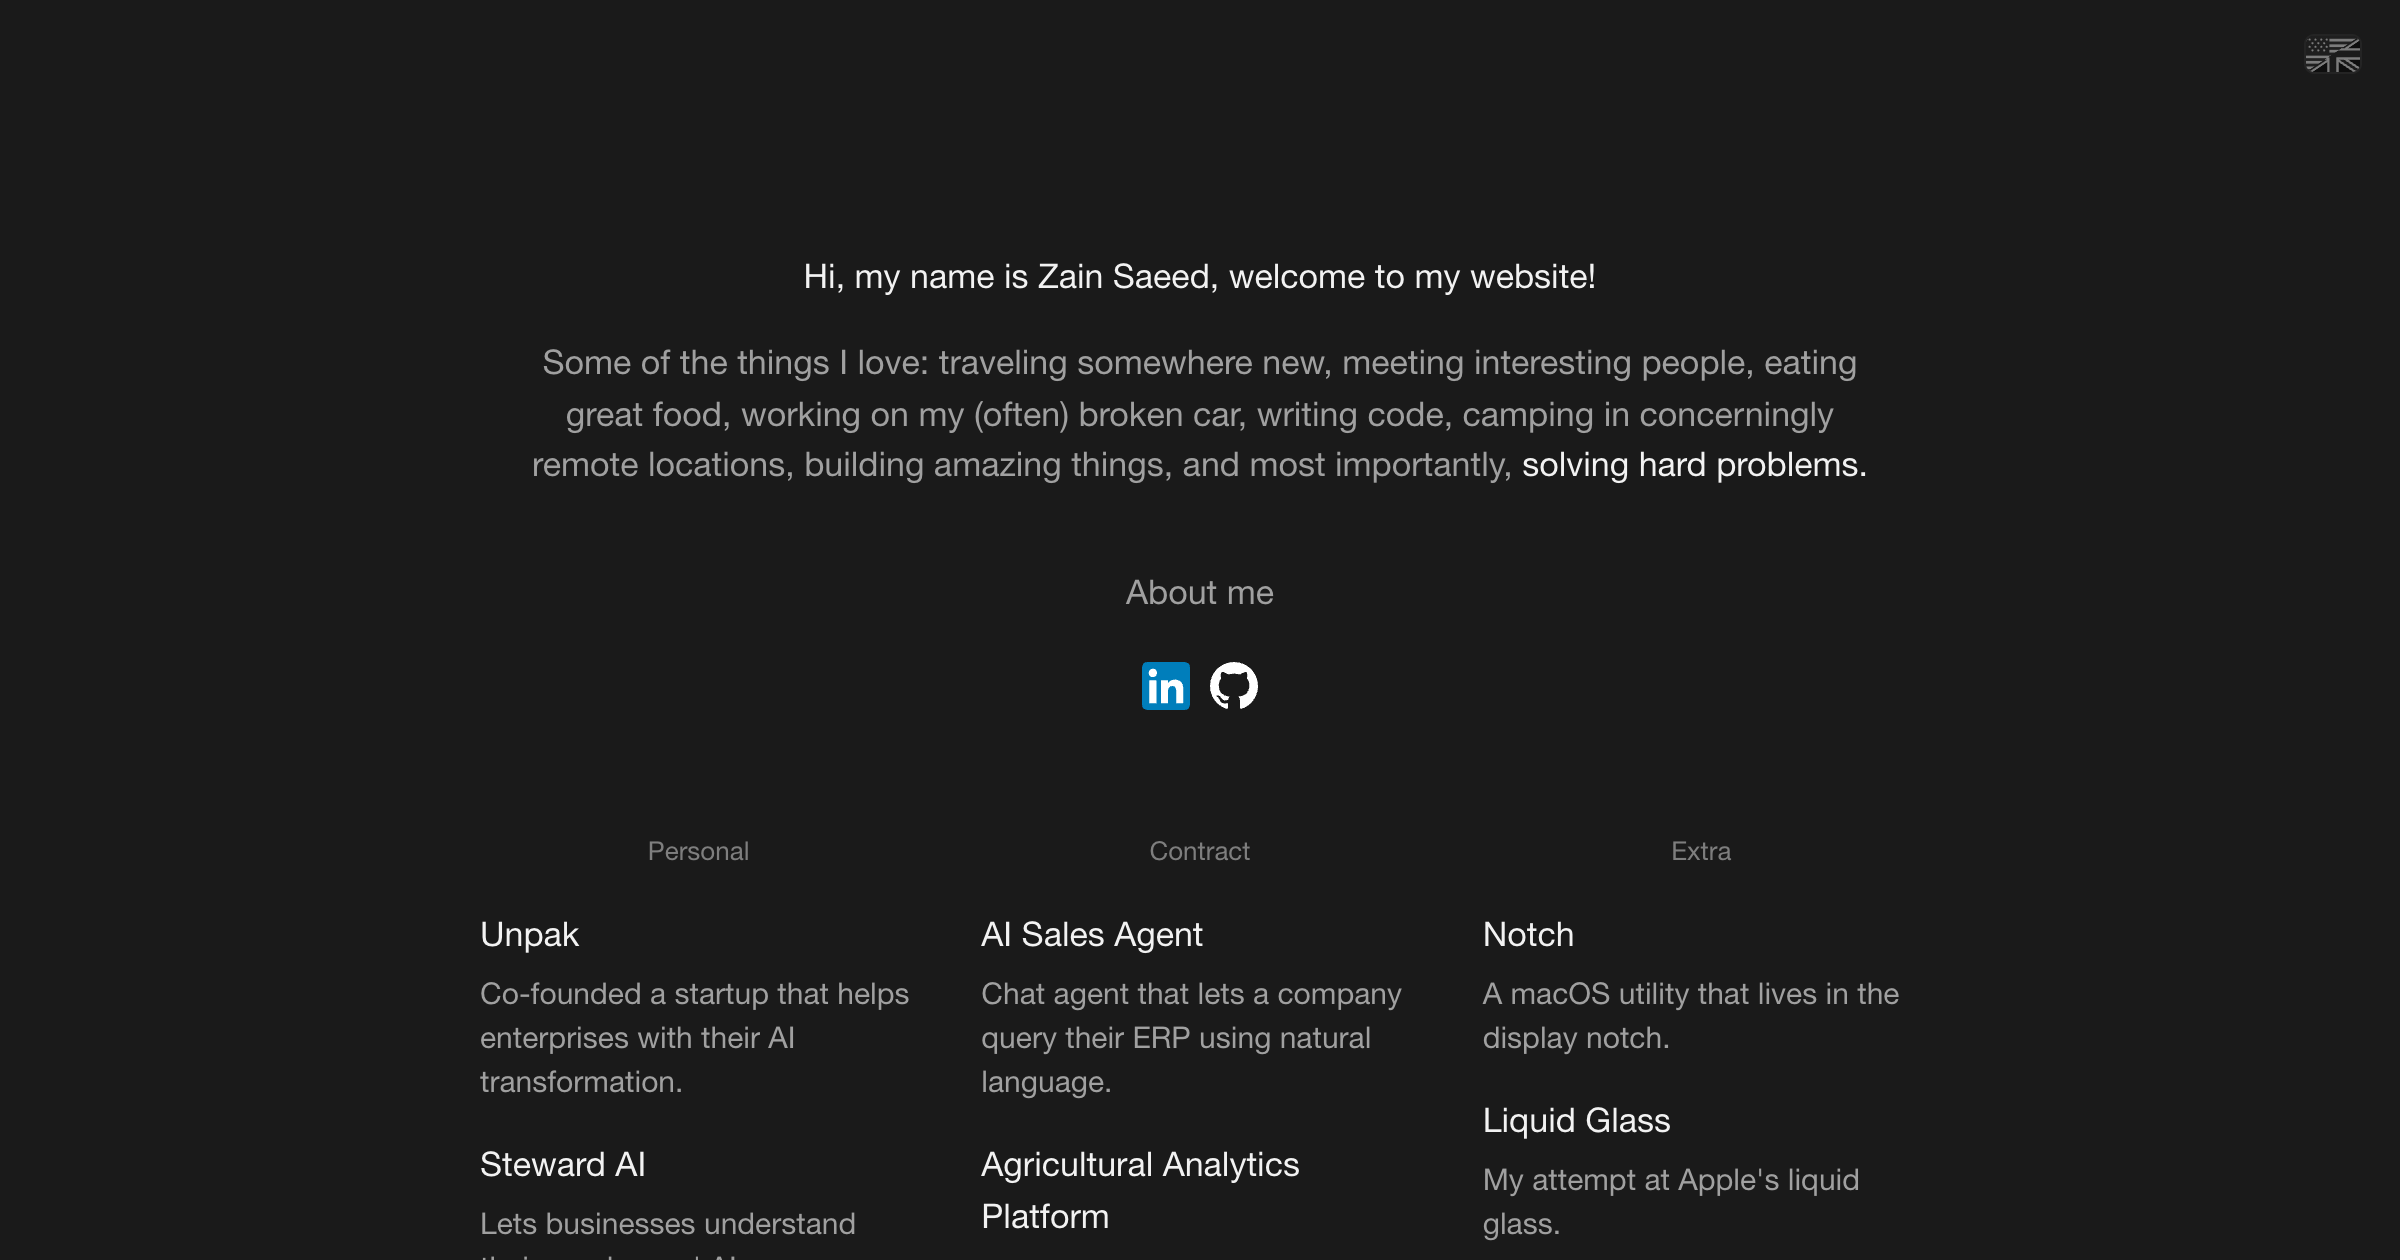
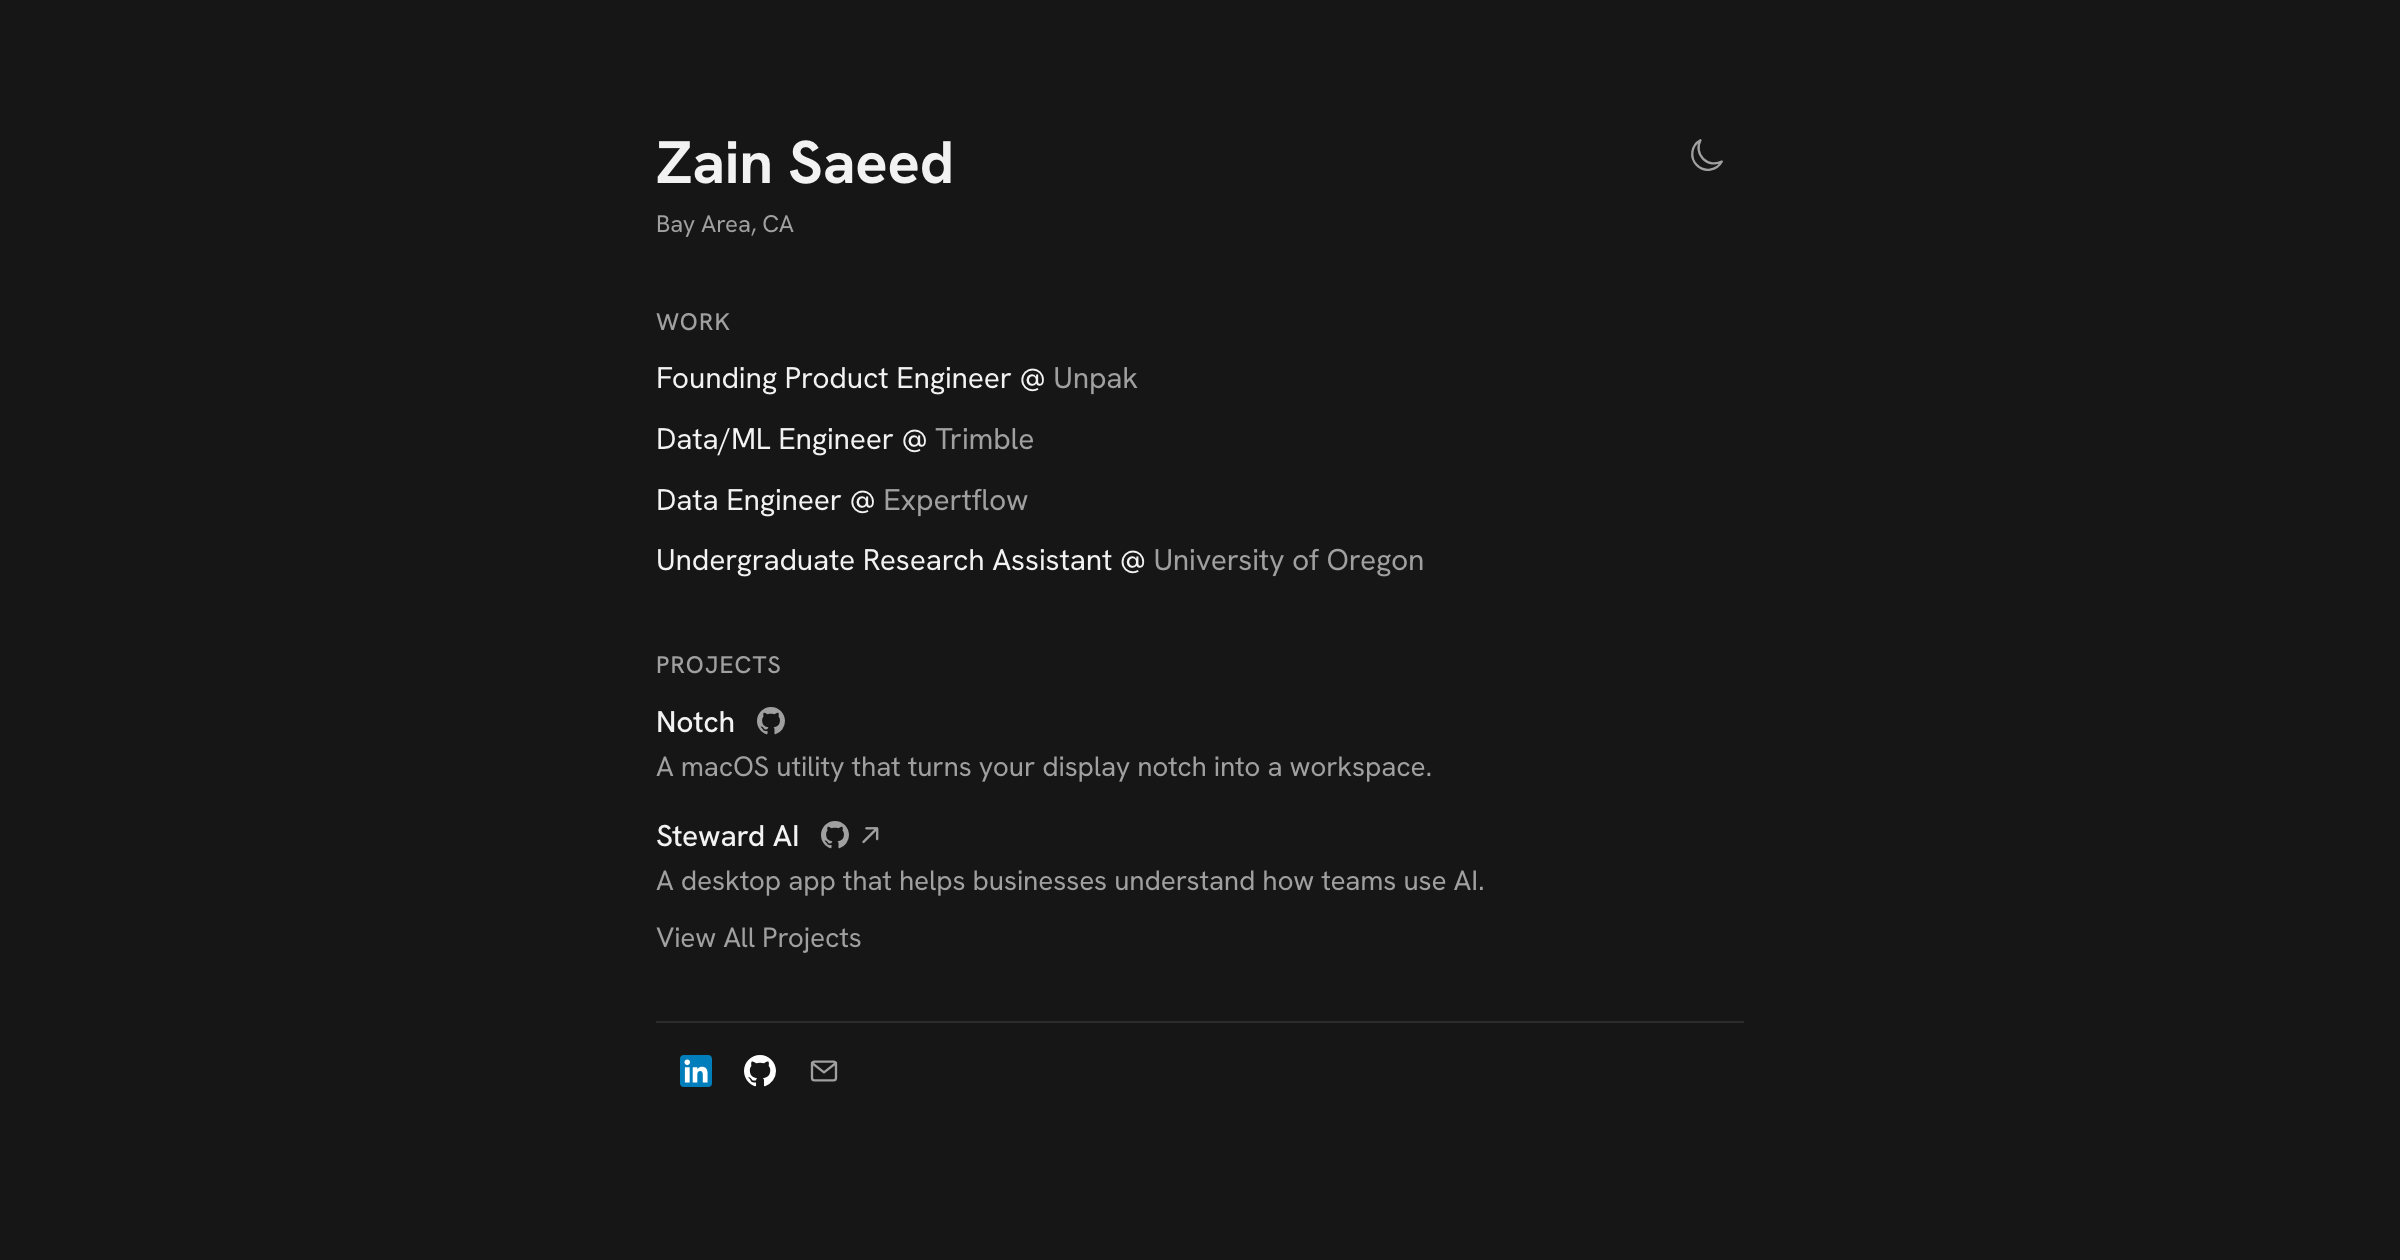
Refresh link previews and page metadata
- New og-home.png screenshot of the current homepage (the old one showed
  the retired layout); clock, status, and commit diff hidden for capture
- Projects page gets Open Graph/Twitter tags and its own og-projects.png
- Sitemap lastmod updated to 2026-09-30
- 404 viewport matches the other pages (viewport-fit=cover)

diff --git a/public/projects/index.html b/public/projects/index.html
@@ -5,6 +5,17 @@
 <meta name="viewport" content="width=device-width, initial-scale=1, viewport-fit=cover">
 <title>Projects - Zain Saeed</title>
 <meta name="description" content="Projects by Zain Saeed, with short descriptions, websites, and GitHub repositories.">
+<meta property="og:title" content="Projects - Zain Saeed">
+<meta property="og:description" content="Projects by Zain Saeed, with short descriptions, websites, and GitHub repositories.">
+<meta property="og:type" content="website">
+<meta property="og:url" content="https://zsaeed.com/projects/">
+<meta property="og:site_name" content="Zain Saeed">
+<meta property="og:locale" content="en_US">
+<meta property="og:image" content="https://zsaeed.com/assets/img/og-projects.png">
+<meta property="og:image:width" content="2400">
+<meta property="og:image:height" content="1260">
+<meta property="og:image:alt" content="Zain Saeed's projects page on zsaeed.com">
+<meta name="twitter:card" content="summary_large_image">
 <link rel="canonical" href="https://zsaeed.com/projects/">
 <link rel="icon" href="/favicon.ico" sizes="16x16 32x32 48x48">
 <link rel="icon" href="/favicon-16x16.png" type="image/png" sizes="16x16">

diff --git a/public/404.html b/public/404.html
@@ -2,7 +2,7 @@
 <html lang="en">
 <head>
 <meta charset="utf-8">
-<meta name="viewport" content="width=device-width, initial-scale=1">
+<meta name="viewport" content="width=device-width, initial-scale=1, viewport-fit=cover">
 <title>Not found - Zain Saeed</title>
 <meta name="description" content="That page doesn't exist.">
 <meta name="robots" content="noindex, follow">

diff --git a/tools/build-work.py b/tools/build-work.py
@@ -83,6 +83,17 @@ def index_page():
 <meta name="viewport" content="width=device-width, initial-scale=1, viewport-fit=cover">
 <title>Projects - Zain Saeed</title>
 <meta name="description" content="Projects by Zain Saeed, with short descriptions, websites, and GitHub repositories.">
+<meta property="og:title" content="Projects - Zain Saeed">
+<meta property="og:description" content="Projects by Zain Saeed, with short descriptions, websites, and GitHub repositories.">
+<meta property="og:type" content="website">
+<meta property="og:url" content="https://zsaeed.com/projects/">
+<meta property="og:site_name" content="Zain Saeed">
+<meta property="og:locale" content="en_US">
+<meta property="og:image" content="https://zsaeed.com/assets/img/og-projects.png">
+<meta property="og:image:width" content="2400">
+<meta property="og:image:height" content="1260">
+<meta property="og:image:alt" content="Zain Saeed's projects page on zsaeed.com">
+<meta name="twitter:card" content="summary_large_image">
 <link rel="canonical" href="https://zsaeed.com/projects/">
 <link rel="icon" href="/favicon.ico" sizes="16x16 32x32 48x48">
 <link rel="icon" href="/favicon-16x16.png" type="image/png" sizes="16x16">
